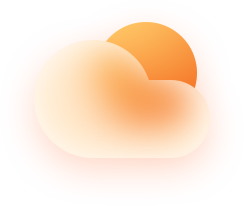
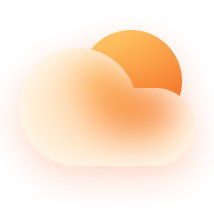
优化了界面，移动了按钮位置，修复天气图标显示错误

Changed region(s): [[0.3084, 0.0874, 0.9252, 0.6117], [0.5888, 0.3495, 0.6168, 0.3786]]

diff --git a/smart-city/src/components/Map.vue b/smart-city/src/components/Map.vue
@@ -1,17 +1,13 @@
 <template>
     <div class="com-container">
         <div id="MapContainer"></div>
-        <div class="input-card">
-            <div class="input-item">
-                <button class="btn" @click="show_road_condition()"><img src="~@/assets/images/实时路况.png" alt=""></button>
-                <button class="btn" @click="show_average_traffic_flow()"><img src="~@/assets/images/日均车流.png" alt=""></button>
-                <button class="btn" @click="show_3D_map()"><img src="~@/assets/images/3D模型.png" alt=""></button>
-                <button class="btn" @click="show_people_out()"><img src="~@/assets/images/人口流出.png" alt=""></button>
-                <button class="btn" @click="show_people_out()"><img src="~@/assets/images/实时公交.png" alt=""></button>
-            </div>
-        </div>
         <div class="center-btns">
-            <img src="~@/assets/images/all-btn.png" alt="">
+            <button class="btn btn1" @click="show_road_condition()"><img src="~@/assets/images/实时路况.png" alt="" /></button>
+            <button class="btn btn2" @click="show_average_traffic_flow()"><img src="~@/assets/images/日均车流.png" alt="" /></button>
+            <button class="btn btn3" @click="show_3D_map()"><img src="~@/assets/images/3D模型.png" alt="" /></button>
+            <button class="btn btn4" @click="show_people_out()"><img src="~@/assets/images/人口流出.png" alt="" /></button>
+            <button class="btn btn5" @click="show_people_out()"><img src="~@/assets/images/实时公交.png" alt="" /></button>
+            <img src="~@/assets/images/all-btn.png" alt="" class="all" />
         </div>
     </div>
 </template>

diff --git a/smart-city/src/assets/css/map.css b/smart-city/src/assets/css/map.css
@@ -10,37 +10,62 @@
     height: 100%;
     position: absolute;
 }
-.input-card {
-    position: absolute;
-    left: 50%;
-    bottom: 136px;
-    z-index: 999;
-    height: 60px;
-    transform: translate(-50%);
-}
-
-.input-card img{
-    width: 56px;
-}
-
-.input-card button:last-child {
-    margin-right: 0px;
-}
-
-.input-item button.btn {
-    border: 0px solid #2fa1d636;
-    background-color: transparent;
-    margin-right: 40px;
-}
-
-.input-item button.btn:last-child{
-    margin-right: 0;
-}
 
 .center-btns {
     position: absolute;
     left: 50%;
     bottom: 50px;
+    z-index: 999;
+    width: 400px;
+    height: 120px;
+    transform: translate(-50%);
+}
+
+.center-btns .btn {
+    position: absolute;
+    border: 0px;
+    cursor: pointer;
+    filter: drop-shadow(0px 0px 10px #1972f5);
+    background-color: transparent;
+}
+
+.center-btns .btn1 {
+    left: 0;
+    top: 50%;
+}
+
+.center-btns .btn2 {
+    left: 50%;
+    transform: translate(-236%);
+    top: -13px;
+}
+
+.center-btns .btn3 {
+    left: 50%;
+    transform: translate(-44%);
+    top: -17px;
+}
+
+.center-btns .btn4 {
+    left: 50%;
+    transform: translate(135%);
+    top: -10px;
+}
+
+.center-btns .btn5 {
+    right: 0;
+    top: 50%;
+}
+
+.center-btns img {
+    width: 56px;
+}
+
+.center-btns .all {
+    width: 275px;
+    position: absolute;
+    left: 50%;
+    bottom: 0;
+    cursor: pointer;
     transform: translateX(-50%);
-    z-index: 99999;
 }

diff --git a/smart-city/src/components/Home.vue b/smart-city/src/components/Home.vue
@@ -7,7 +7,7 @@
             </div>
             <div class="nav-left" v-if="weatherData">
                 <ul>
-                    <li><img :src="`/smart-city/src/assets/images/weather/${weatherData.lives[0].weather}.png`" alt="" /></li>
+                    <li style="position: relative;height: 40px;width: 40px;"><img :src="`/smart-city/src/assets/images/weather/${weatherData.lives[0].weather}.png`" alt="" /></li>
                     <li class="temperature">{{ weatherData.lives[0].temperature }}°C</li>
                     <li>
                         <p class="head">风向描述</p>

diff --git a/smart-city/src/assets/css/home.css b/smart-city/src/assets/css/home.css
@@ -10,7 +10,7 @@ header .header-bg {
 header .nav-left {
     position: absolute;
     font-family: "Alibaba";
-    left: 16px;
+    left: 24px;
     top: 18px;
     height: 40px;
     color: white;
@@ -42,7 +42,11 @@ header .nav-left li p.content {
 }
 
 header .nav-left img {
-    width: 46px;
+    width: 44px;
+    position: absolute;
+    left: 50%;
+    top: 50%;
+    transform: translate(-50%, -50%)
 }
 
 header .nav-left span {
